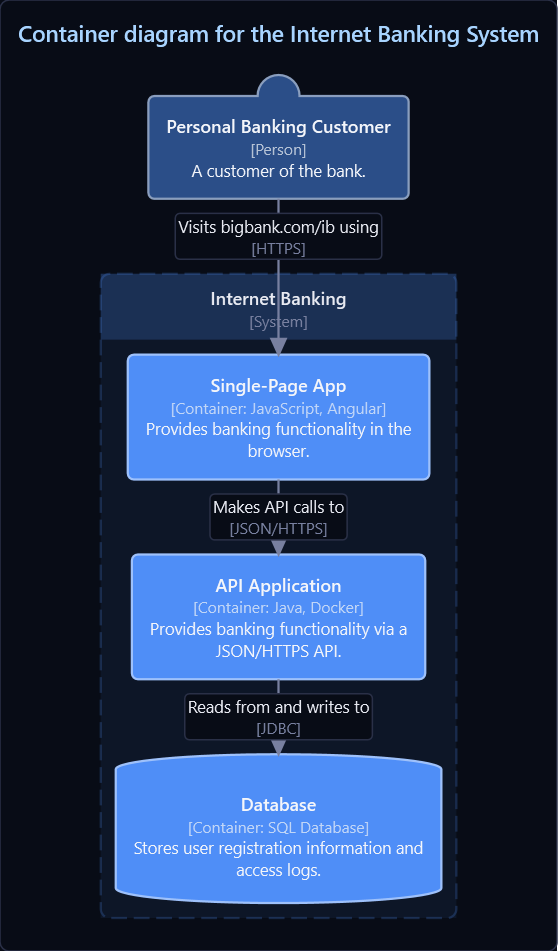
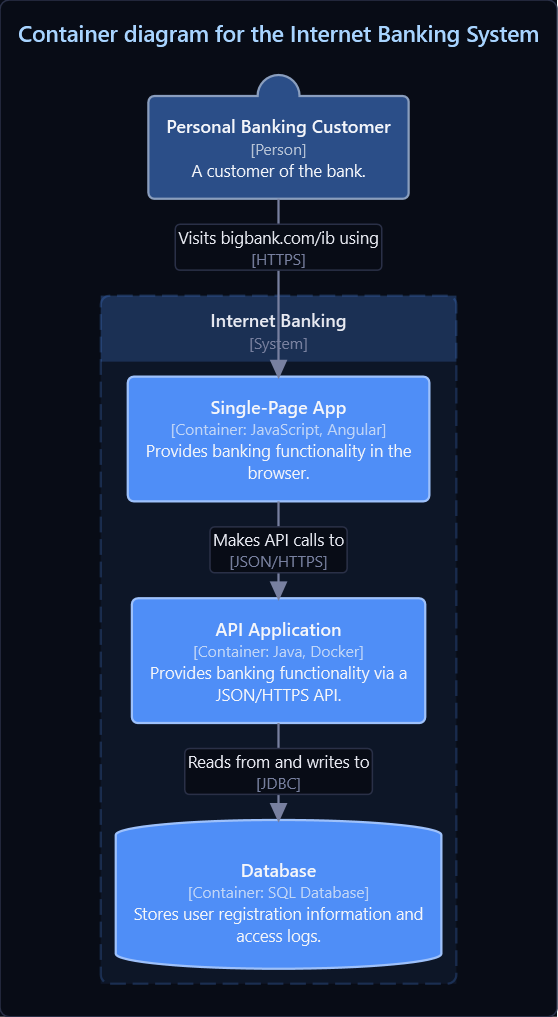
Leave a C4 relationship's line visible under what is written on it
The ranks are held apart for everything written between them, not just the
tallest of it: several lines between the same two things write one under
another, so it is what they come to together that the gap has to hold, with
air either side so the lines themselves still show.

Two lines between the same pair are stacked for the same reason — side by
side they read as one line with a head at each end, which is not what was
written. Two between different pairs still go side by side, since moving
those along would push one out of its own gap and onto a card.

diff --git a/src/Nexaflow.Visuals.Text/Markdown/Mermaid/C4/C4Builder.cs b/src/Nexaflow.Visuals.Text/Markdown/Mermaid/C4/C4Builder.cs
@@ -72,8 +72,8 @@ internal sealed class C4Builder : MermaidBuilder<C4Structure>
     /// <summary>Air inside a boundary, between its edge and its name.</summary>
     private const double Boxed = 14;
 
-    /// <summary>Clear air either side of what is written between two ranks.</summary>
-    private const double Clear = 16;
+    /// <summary>Clear air either side of what is written between two ranks, so the line it is written on still shows.</summary>
+    private const double Clear = 36;
 
 
 
@@ -180,15 +180,22 @@ internal sealed class C4Builder : MermaidBuilder<C4Structure>
 
         var way = diagram.Way == C4Way.Right ? DiagramWay.Right : DiagramWay.Down;
 
-        // The ranks are held far enough apart for what is written between them. What a relationship says is set in the gap
-        // it leaves its first end by, so a gap narrower than the widest of those words would put them over a card — and the
-        // words are measured already, so the room they need is known before anything is placed.
+        // The ranks are held far enough apart for everything written between them, which is known before anything is placed
+        // because the words are measured already. Several lines between the same two things write one under another, so it
+        // is what they come to together that the gap has to hold — and the air either side of that is what leaves the lines
+        // themselves visible rather than papered over by what is written on them.
         plan.Along = diagram.Config.Apart;
 
-        foreach (var said in plan.Said.Values.Where(said => said.Count > 0))
+        foreach (var pair in diagram.Links.GroupBy(Pairing))
         {
-            var taken = DiagramWords.Taken(said);
-            plan.Along = Math.Max(plan.Along, (way is DiagramWay.Right or DiagramWay.Left ? taken.Width : taken.Height) + Clear);
+            var stacked = pair
+                .Select(link => plan.Said[link])
+                .Where(said => said.Count > 0)
+                .Sum(said => way is DiagramWay.Right or DiagramWay.Left
+                    ? DiagramWords.Taken(said).Width
+                    : DiagramWords.Taken(said).Height);
+
+            if (stacked > 0) plan.Along = Math.Max(plan.Along, stacked + Clear);
         }
 
         plan.Size = DiagramLayers.Lay(cells, [.. plan.Joins.Values], way, diagram.Config.Apart, plan.Along);
@@ -427,7 +434,7 @@ internal sealed class C4Builder : MermaidBuilder<C4Structure>
     /// </summary>
     private static void Spread(IReadOnlyList<Route> routes, DiagramWay way)
     {
-        var sideways = way is DiagramWay.Down or DiagramWay.Up;
+        var down = way is DiagramWay.Down or DiagramWay.Up;
 
         for (var pass = 0; pass < 8; pass++)
         {
@@ -442,7 +449,12 @@ internal sealed class C4Builder : MermaidBuilder<C4Structure>
                     var over = Rect.Intersect(first.Room, second.Room);
                     if (over.IsEmpty) continue;
 
-                    // Half a step each, so neither is favoured and a row of them settles evenly about where they started.
+                    // Two lines between the same two things write one under the other, in the room the gap was widened to hold
+                    // both. Two between different things go side by side instead — moving those along would push one of them
+                    // out of its own gap and onto a card.
+                    var sideways = down ^ (Pairing(first.Link) == Pairing(second.Link));
+
+                    // Half a step each, so neither is favoured and a run of them settles evenly about where they started.
                     var step = ((sideways ? over.Width : over.Height) / 2) + 1;
                     var back = sideways
                         ? first.Room.X + (first.Room.Width / 2) <= second.Room.X + (second.Room.Width / 2)
@@ -456,6 +468,10 @@ internal sealed class C4Builder : MermaidBuilder<C4Structure>
             if (!moved) return;
         }
     }
+
+    /// <summary>The two ends a relationship runs between, whichever way round it runs — two lines between the same pair.</summary>
+    private static (string, string) Pairing(C4Link link) =>
+        string.CompareOrdinal(link.From, link.To) <= 0 ? (link.From, link.To) : (link.To, link.From);
 
     private static Rect Shifted(Rect room, bool sideways, double by) =>
         sideways ? Rect.Offset(room, by, 0) : Rect.Offset(room, 0, by);
